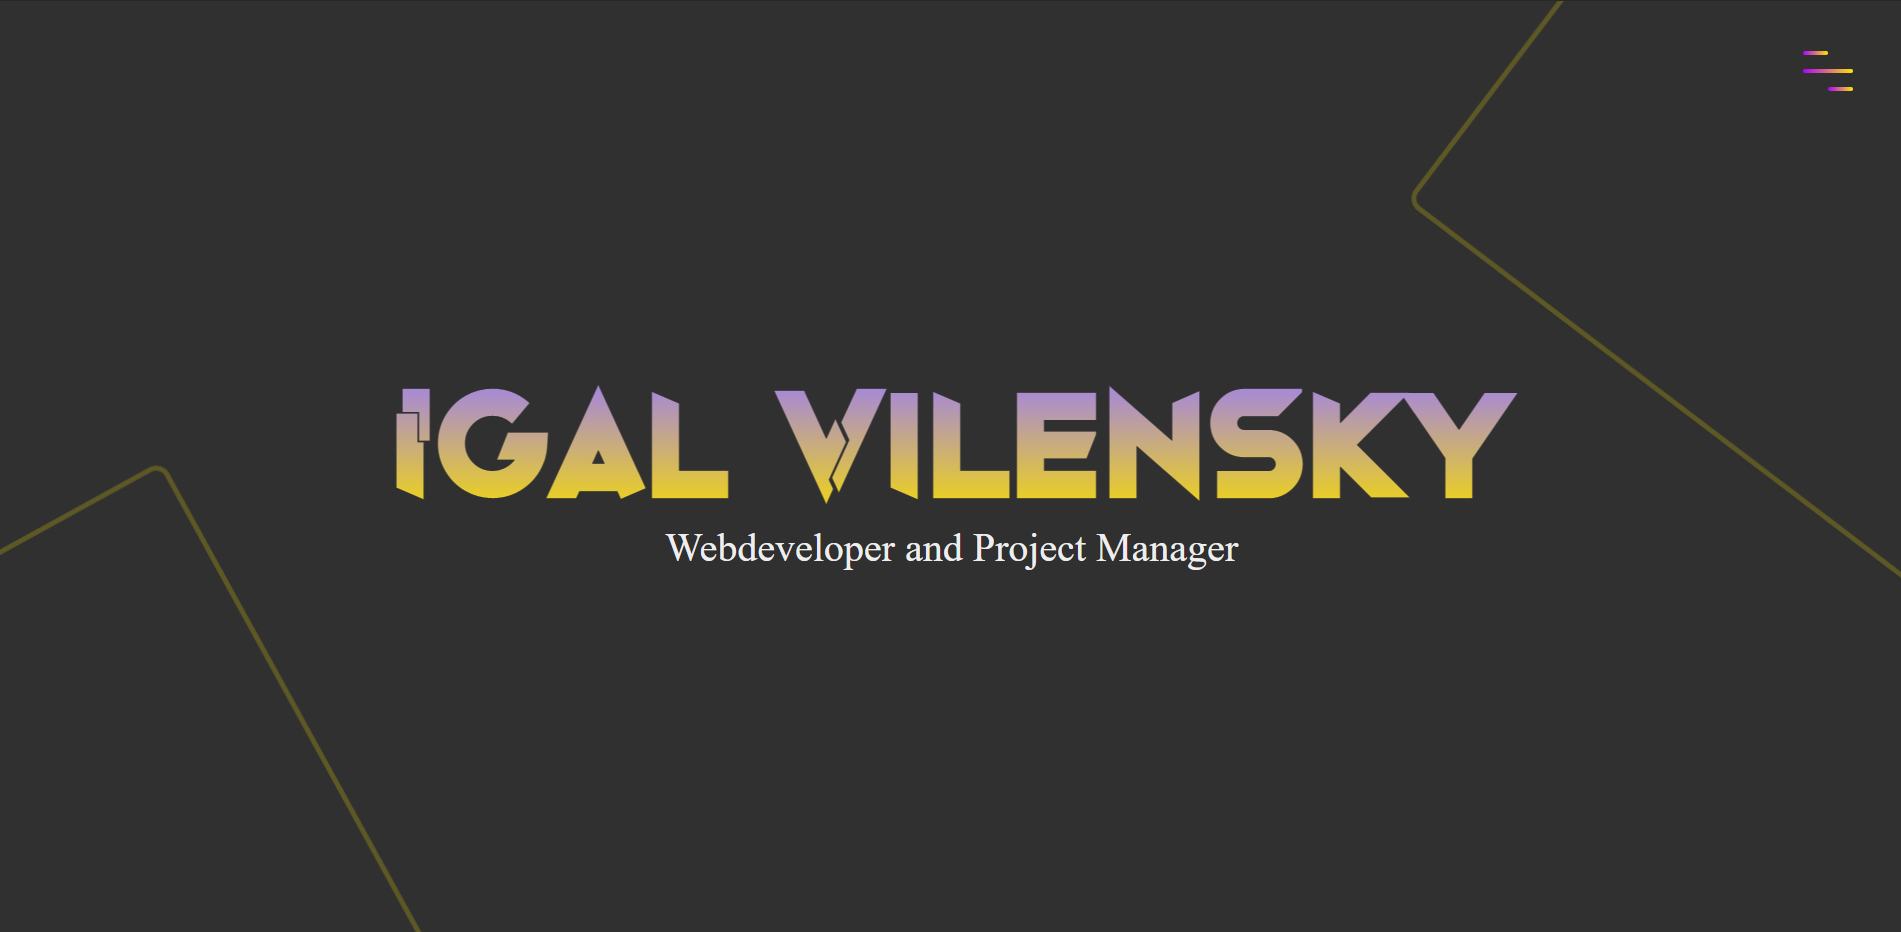
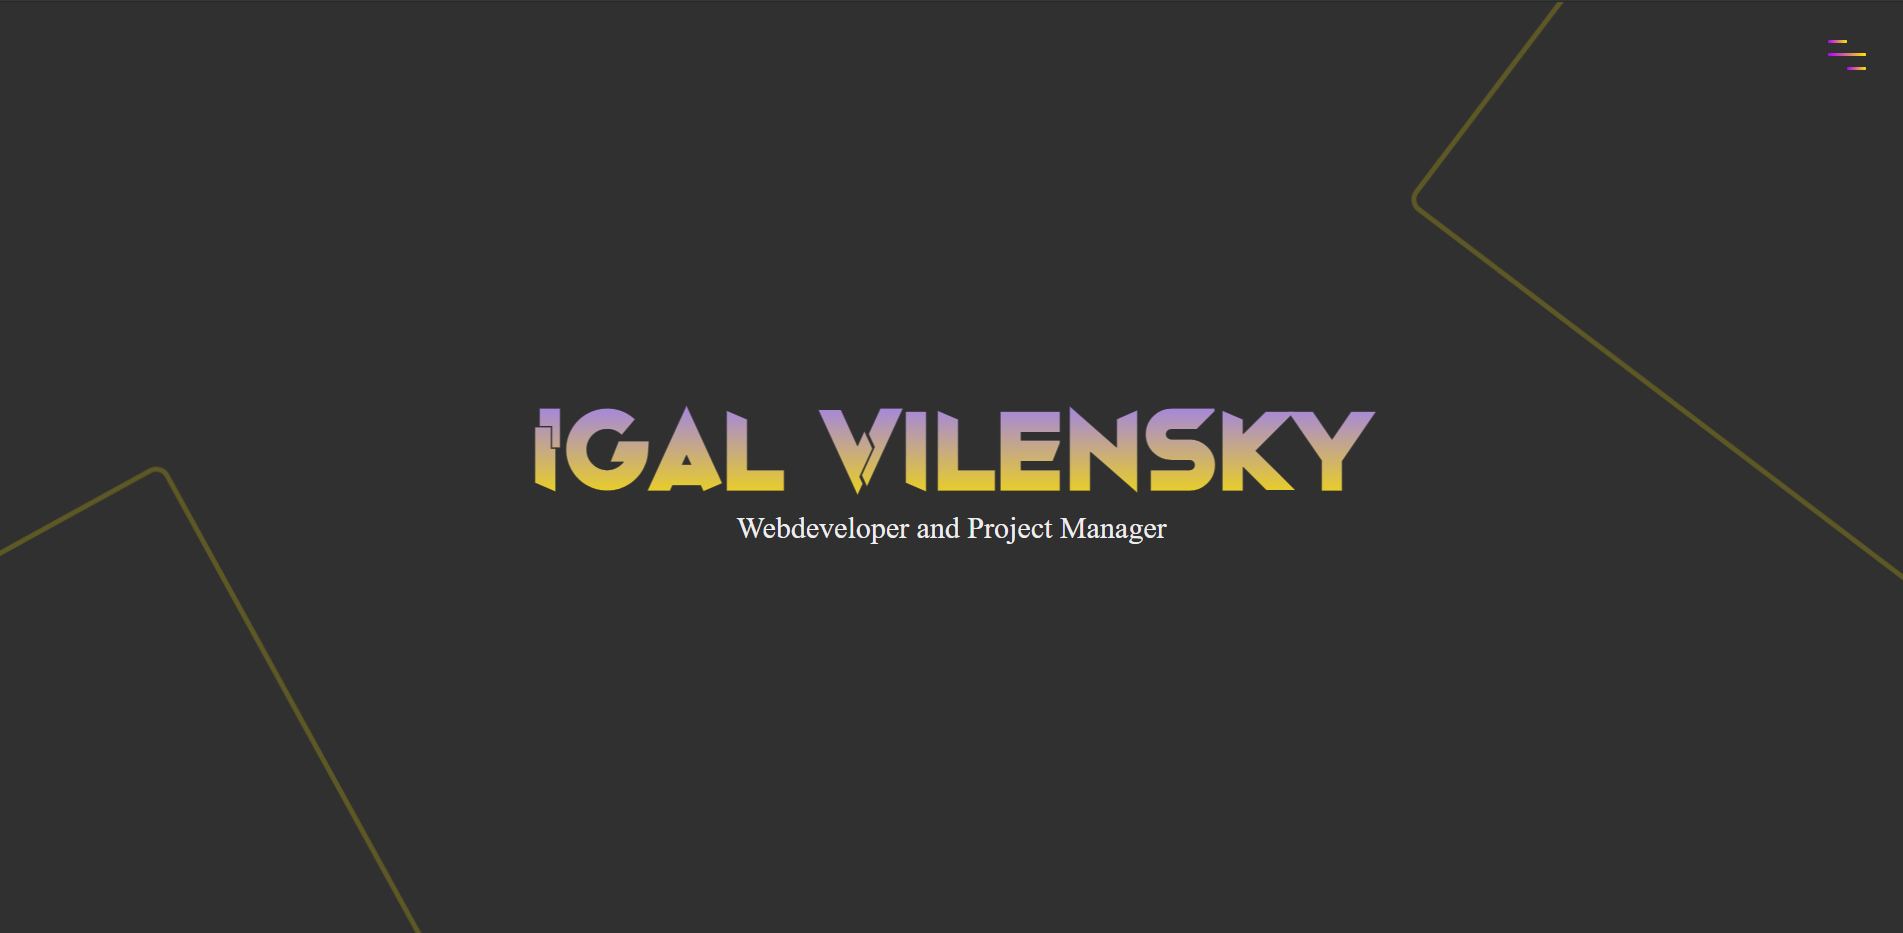
img fix

Changed region(s): [[0.1862, 0.4045, 0.8069, 0.6223], [0.9932, 0.5912, 1.0, 0.6223]]

diff --git a/src/components/intro/intro.scss b/src/components/intro/intro.scss
@@ -18,12 +18,13 @@
       align-items: flex-end;
       float: right;
       position: relative;
-      top: 1px;
+      /* top: 1px; */
       img {
         /*  border: 2px solid blue; */
+        height: 90%;
         width: 85%;
         position: absolute;
-        bottom: 135px;
+        bottom: 125px;
       }
     }
   }
